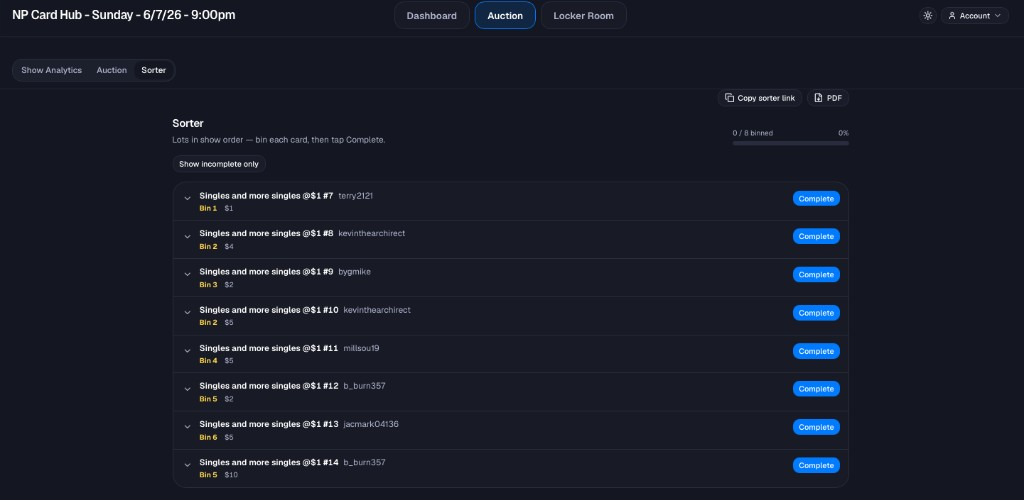
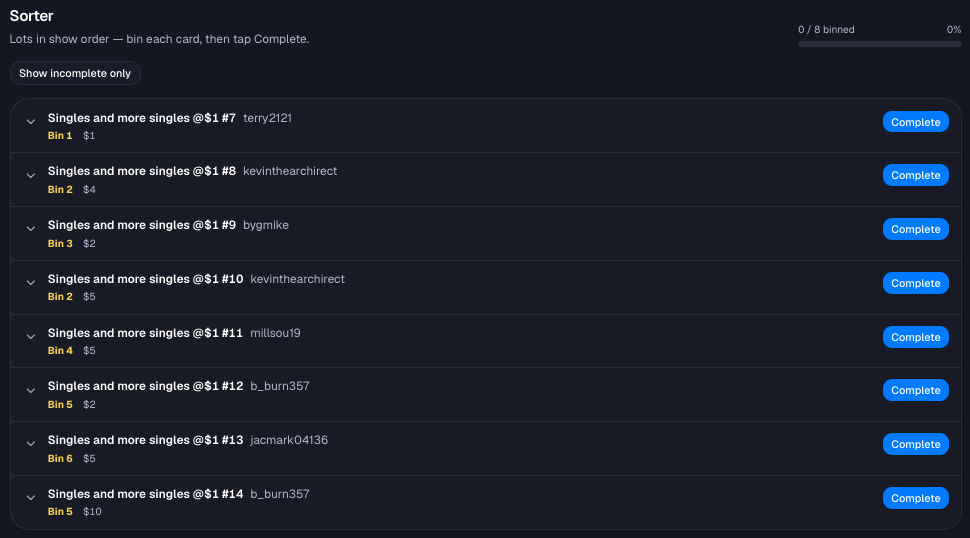
Add product screenshots, new hero headline, and richer feature cards.
Wire extension, live show, sorter, and PDF images into the landing page, highlight label sizes in Relai blue, and give Built for Live Sellers colored icon cards with an updated headline.

diff --git a/components/landing/landing-sections.tsx b/components/landing/landing-sections.tsx
@@ -1,4 +1,5 @@
 import { OptionalImage } from "@/components/landing/optional-image";
+import { SellerFeatureIconGlyph } from "@/components/landing/seller-feature-icon";
 import { SectionHeading, SectionShell } from "@/components/landing/section-shell";
 import { TrialCtaButton } from "@/components/trial-cta-button";
 import {
@@ -16,6 +17,7 @@ import {
   PRINT_MODES_DETAILED,
   PRINTER_OPTIONS,
   SUPPORTED_PLATFORMS,
+  type SellerFeatureAccent,
 } from "@/lib/landing-content";
 import { LANDING_IMAGES } from "@/lib/site-config";
 
@@ -339,11 +341,14 @@ function LabelSizes() {
         />
         <div className="grid gap-4 sm:grid-cols-2 lg:grid-cols-4">
           {LABEL_SIZES.map((label) => (
-            <article key={label.size} className="glass-card space-y-2 p-5 text-center">
-              <h3 className="text-lg font-semibold tracking-tight text-primary">
+            <article
+              key={label.size}
+              className="space-y-2 rounded-2xl border-2 border-primary/45 bg-gradient-to-br from-primary/20 via-primary/10 to-primary/5 p-5 text-center shadow-md shadow-primary/10"
+            >
+              <h3 className="text-xl font-bold tracking-tight text-primary">
                 {label.size}
               </h3>
-              <p className="text-sm leading-relaxed text-muted-foreground">
+              <p className="text-sm leading-relaxed text-foreground/85">
                 {label.description}
               </p>
             </article>
@@ -432,6 +437,50 @@ function LabelPreview({
   );
 }
 
+const SELLER_FEATURE_STYLES: Record<
+  SellerFeatureAccent,
+  { card: string; icon: string }
+> = {
+  blue: {
+    card: "border-primary/45 from-primary/20 via-primary/10 to-primary/5 shadow-primary/10",
+    icon: "bg-primary/15 text-primary",
+  },
+  green: {
+    card: "border-accent-success/45 from-accent-success/20 via-accent-success/10 to-accent-success/5 shadow-accent-success/10",
+    icon: "bg-accent-success/15 text-bucket-green",
+  },
+  orange: {
+    card: "border-bucket-orange/45 from-bucket-orange/20 via-bucket-orange/10 to-bucket-orange/5 shadow-bucket-orange/10",
+    icon: "bg-bucket-orange/15 text-bucket-orange",
+  },
+};
+
+function SellerFeatureCard({
+  feature,
+}: {
+  feature: (typeof BUILT_FOR_SELLERS)[number];
+}) {
+  const styles = SELLER_FEATURE_STYLES[feature.accent];
+
+  return (
+    <article
+      className={`space-y-4 rounded-2xl border-2 bg-gradient-to-br p-5 shadow-md ${styles.card}`}
+    >
+      <div className={`inline-flex rounded-xl p-2.5 ${styles.icon}`}>
+        <SellerFeatureIconGlyph icon={feature.icon} />
+      </div>
+      <div className="space-y-2">
+        <h3 className="text-sm font-semibold tracking-tight text-foreground">
+          {feature.title}
+        </h3>
+        <p className="text-sm leading-relaxed text-foreground/80">
+          {feature.description}
+        </p>
+      </div>
+    </article>
+  );
+}
+
 function BuiltForSellers() {
   return (
     <SectionShell tinted>
@@ -441,22 +490,8 @@ function BuiltForSellers() {
           description="Everything you need to streamline your shipping process — and more that only Relai offers."
         />
         <div className="grid gap-4 sm:grid-cols-2 lg:grid-cols-3">
-          {BUILT_FOR_SELLERS.map((feature, i) => (
-            <article
-              key={feature.title}
-              className={`glass-card space-y-2 p-5 ${
-                i % 3 === 0
-                  ? "accent-top-blue"
-                  : i % 3 === 1
-                    ? "accent-top-green"
-                    : "accent-top-orange"
-              }`}
-            >
-              <h3 className="text-sm font-semibold tracking-tight">{feature.title}</h3>
-              <p className="text-sm leading-relaxed text-muted-foreground">
-                {feature.description}
-              </p>
-            </article>
+          {BUILT_FOR_SELLERS.map((feature) => (
+            <SellerFeatureCard key={feature.title} feature={feature} />
           ))}
         </div>
       </div>

diff --git a/lib/landing-content.ts b/lib/landing-content.ts
@@ -1,5 +1,8 @@
 export const TRIAL_CTA_LABEL = "Try Free for 7 Days";
 
+export const HERO_HEADLINE =
+  "Run your live show. Relai labels wins, organizes buyers, and proves every purchase.";
+
 /** Sticky section nav — anchor links scroll to each block on the page */
 export const SECTION_NAV = [
   { label: "How It Works", href: "#how-it-works" },
@@ -162,48 +165,87 @@ export const PRINT_MODES_DETAILED = [
   },
 ] as const;
 
+export type SellerFeatureAccent = "blue" | "green" | "orange";
+
+export type SellerFeatureIcon =
+  | "printer"
+  | "hash"
+  | "users"
+  | "sparkles"
+  | "vision"
+  | "locker"
+  | "pdf"
+  | "sorter"
+  | "cloud"
+  | "dashboard";
+
 export const BUILT_FOR_SELLERS = [
   {
     title: "Instant Label Printing",
     description: "Labels print automatically when sales are detected. No manual input needed.",
+    accent: "blue",
+    icon: "printer",
   },
   {
     title: "Sequential Numbering",
     description: "Each buyer gets a numbered label. Simple system to keep packages organized.",
+    accent: "green",
+    icon: "hash",
   },
   {
     title: "Repeat Buyer Detection",
     description: "Automatically recognizes repeat buyers within a show. No duplicate bin labels.",
+    accent: "orange",
+    icon: "users",
   },
   {
     title: "Hands-Free Printing",
     description: "Labels print while you focus on selling. No typing, no writing — just sell.",
+    accent: "blue",
+    icon: "sparkles",
   },
   {
     title: "AI Vision & Lot Photos",
     description: "Capture lot photos on save. Computer vision helps flag issues before they ship.",
+    accent: "green",
+    icon: "vision",
   },
   {
     title: "Buyer Locker Room",
     description: "Buyers see their wins in a dedicated gallery — builds trust and repeat business.",
+    accent: "orange",
+    icon: "locker",
   },
   {
     title: "After-Show PDF",
     description: "Printable show summary grouped by buyer. Pack faster with less guesswork.",
+    accent: "blue",
+    icon: "pdf",
   },
   {
     title: "Live Sorter Page",
     description: "Packing crew marks lots binned in real time with a shareable link.",
+    accent: "green",
+    icon: "sorter",
   },
   {
     title: "Cloud App",
     description: "Connect from anywhere. No desktop install — runs in Chrome on Mac or Windows.",
+    accent: "orange",
+    icon: "cloud",
   },
   {
     title: "Seller Dashboard",
     description: "Track lots sold, locker visits, and estimated time saved across your shows.",
+    accent: "blue",
+    icon: "dashboard",
   },
-] as const;
+] as const satisfies ReadonlyArray<{
+  title: string;
+  description: string;
+  accent: SellerFeatureAccent;
+  icon: SellerFeatureIcon;
+}>;
 
 export const FAQ_ITEMS = [
   {

diff --git a/components/landing/seller-feature-icon.tsx b/components/landing/seller-feature-icon.tsx
@@ -1,0 +1,101 @@
+import type { ReactNode } from "react";
+
+import type { SellerFeatureIcon } from "@/lib/landing-content";
+
+const iconPaths: Record<SellerFeatureIcon, ReactNode> = {
+  printer: (
+    <>
+      <path d="M6 9V4a2 2 0 0 1 2-2h8a2 2 0 0 1 2 2v5" />
+      <path d="M6 14H4a2 2 0 0 1-2-2v-2a2 2 0 0 1 2-2h16a2 2 0 0 1 2 2v2a2 2 0 0 1-2 2h-2" />
+      <path d="M6 18h12v4H6z" />
+    </>
+  ),
+  hash: (
+    <>
+      <path d="M4 9h16" />
+      <path d="M4 15h16" />
+      <path d="M10 3 8 21" />
+      <path d="M16 3l-2 18" />
+    </>
+  ),
+  users: (
+    <>
+      <path d="M16 21v-2a4 4 0 0 0-4-4H6a4 4 0 0 0-4 4v2" />
+      <circle cx="9" cy="7" r="4" />
+      <path d="M22 21v-2a4 4 0 0 0-3-3.87" />
+      <path d="M16 3.13a4 4 0 0 1 0 7.75" />
+    </>
+  ),
+  sparkles: (
+    <>
+      <path d="M9.937 15.5A2 2 0 0 0 8.5 14.063l-6.135-1.582a.5.5 0 0 1 0-.962L8.5 9.936A2 2 0 0 0 9.937 8.5l1.582-6.135a.5.5 0 0 1 .963 0L14.063 8.5A2 2 0 0 0 15.5 9.937l6.135 1.581a.5.5 0 0 1 0 .964L15.5 14.063a2 2 0 0 0-1.437 1.437l-1.582 6.135a.5.5 0 0 1-.963 0z" />
+      <path d="M20 3v4" />
+      <path d="M22 5h-4" />
+    </>
+  ),
+  vision: (
+    <>
+      <path d="M2 12s3-7 10-7 10 7 10 7-3 7-10 7-10-7-10-7Z" />
+      <circle cx="12" cy="12" r="3" />
+    </>
+  ),
+  locker: (
+    <>
+      <rect width="18" height="18" x="3" y="3" rx="2" />
+      <path d="M9 3v18M15 3v18M3 9h18M3 15h18" />
+    </>
+  ),
+  pdf: (
+    <>
+      <path d="M14 2H6a2 2 0 0 0-2 2v16a2 2 0 0 0 2 2h12a2 2 0 0 0 2-2V8z" />
+      <path d="M14 2v6h6M10 13H8v4h2a1 1 0 0 0 1-1v-2a1 1 0 0 0-1-1z" />
+    </>
+  ),
+  sorter: (
+    <>
+      <path d="m3 16 4 4 4-4" />
+      <path d="M7 20V4" />
+      <path d="m14 4 4 4-4 4" />
+      <path d="M18 8V4" />
+    </>
+  ),
+  cloud: (
+    <>
+      <path d="M17.5 19H9a7 7 0 1 1 6.71-9h1.79a4.5 4.5 0 1 1 0 9Z" />
+    </>
+  ),
+  dashboard: (
+    <>
+      <rect width="7" height="9" x="3" y="3" rx="1" />
+      <rect width="7" height="5" x="14" y="3" rx="1" />
+      <rect width="7" height="9" x="14" y="12" rx="1" />
+      <rect width="7" height="5" x="3" y="16" rx="1" />
+    </>
+  ),
+};
+
+export function SellerFeatureIconGlyph({
+  icon,
+  className = "",
+}: {
+  icon: SellerFeatureIcon;
+  className?: string;
+}) {
+  return (
+    <svg
+      xmlns="http://www.w3.org/2000/svg"
+      width="20"
+      height="20"
+      viewBox="0 0 24 24"
+      fill="none"
+      stroke="currentColor"
+      strokeWidth="2"
+      strokeLinecap="round"
+      strokeLinejoin="round"
+      className={className}
+      aria-hidden
+    >
+      {iconPaths[icon]}
+    </svg>
+  );
+}

diff --git a/components/hero.tsx b/components/hero.tsx
@@ -1,7 +1,7 @@
 import { DemoVideo } from "@/components/demo-video";
 import { Button } from "@/components/ui/button";
 import { TrialCtaButton } from "@/components/trial-cta-button";
-import { HERO_TRUST_BADGES } from "@/lib/landing-content";
+import { HERO_HEADLINE, HERO_TRUST_BADGES } from "@/lib/landing-content";
 
 export function Hero() {
   return (
@@ -14,8 +14,7 @@ export function Hero() {
       <div className="relative mx-auto max-w-6xl px-4 py-10 sm:px-6 sm:py-14 lg:py-16 xl:px-8">
         <div className="grid grid-cols-1 gap-10 lg:grid-cols-12 lg:gap-x-10 xl:gap-x-14">
           <h1 className="max-w-4xl text-3xl font-semibold tracking-tight text-foreground sm:text-4xl lg:col-span-7 lg:col-start-1 lg:max-w-none lg:text-[2.75rem] lg:leading-[1.12] xl:text-5xl xl:leading-[1.1]">
-            Stop losing money on shipping errors. The first AI-powered Buyer
-            Locker Room &amp; Singles Sorter for Live Sellers.
+            {HERO_HEADLINE}
           </h1>
 
           <div className="space-y-6 lg:col-span-6 lg:col-start-1 lg:pt-4 xl:pt-6">

diff --git a/lib/site-config.ts b/lib/site-config.ts
@@ -11,11 +11,11 @@ export const ASSETS = {
 
 /** Optional landing images — drop files in public/ and set paths here */
 export const LANDING_IMAGES = {
-  howItWorks1: "",
-  howItWorks2: "/images/live-stream.png",
+  howItWorks1: "/images/extension.png",
+  howItWorks2: "/images/live-show.png",
   howItWorks3: "/images/sorter.png",
-  dashboard: "/images/dashboard.png",
-  afterShowPdf: "",
+  dashboard: "/images/extension.png",
+  afterShowPdf: "/images/after-show-pdf.png",
   sorter: "/images/sorter.png",
   lockerRoom: "/images/locker-room.png",
 } as const;

diff --git a/app/layout.tsx b/app/layout.tsx
@@ -13,9 +13,9 @@ const geistMono = Geist_Mono({
 });
 
 export const metadata: Metadata = {
-  title: "Relai — AI Buyer Locker Room & Singles Sorter for Live Sellers",
+  title: "Relai — Labels, Locker Room & Sorting for Live Sellers",
   description:
-    "Stop losing money on shipping errors. The first AI-powered Buyer Locker Room & Singles Sorter for Live Sellers.",
+    "Run your live show. Relai labels wins, organizes buyers, and proves every purchase. Built for Whatnot sellers.",
 };
 
 export default function RootLayout({
